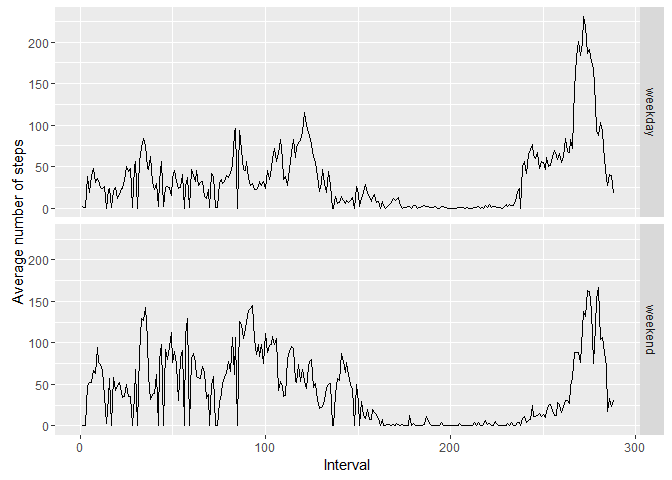
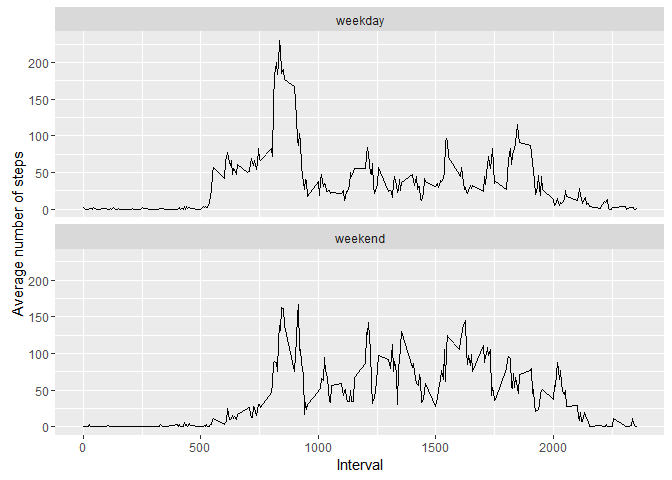
Third commit

diff --git a/PA1_template.html b/PA1_template.html
@@ -185,13 +185,13 @@ wend &lt;- activity_new[activity_new$dayOfWeek == &quot;weekend&quot;, ]
 wd_avg &lt;- tapply(wday$steps, wday$interval, mean)
 we_avg &lt;- tapply(wend$steps, wend$interval, mean)
 
-wdInt &lt;- data.frame(interval = names(wd_avg), avg_steps = wd_avg, dayOfWeek = rep(&quot;weekday&quot;, length(wd_avg)))
-weInt &lt;- data.frame(interval = names(we_avg), avg_steps = we_avg, dayOfWeek = rep(&quot;weekend&quot;, length(we_avg)))
+wdInt &lt;- data.frame(interval = unique(wday$interval), avg_steps = wd_avg, dayOfWeek = rep(&quot;weekday&quot;, length(wd_avg)))
+weInt &lt;- data.frame(interval = unique(wend$interval), avg_steps = we_avg, dayOfWeek = rep(&quot;weekend&quot;, length(we_avg)))
 
 intAvg &lt;- rbind(wdInt, weInt)
 
-qplot(as.integer(interval), avg_steps, data = intAvg, facets = dayOfWeek~., geom=&quot;line&quot;, xlab = &quot;Interval&quot;, ylab = &quot;Average number of steps&quot;)</code></pre>
[1 lines of base64/hex data omitted]
+qplot(interval, avg_steps, data = intAvg, geom=&quot;line&quot;, xlab = &quot;Interval&quot;, ylab = &quot;Average number of steps&quot;) + facet_wrap(~dayOfWeek, ncol=1)</code></pre>
[1 lines of base64/hex data omitted]
 </div>
 
 

diff --git a/PA1_template.md b/PA1_template.md
@@ -114,12 +114,12 @@ wend <- activity_new[activity_new$dayOfWeek == "weekend", ]
 wd_avg <- tapply(wday$steps, wday$interval, mean)
 we_avg <- tapply(wend$steps, wend$interval, mean)
 
-wdInt <- data.frame(interval = names(wd_avg), avg_steps = wd_avg, dayOfWeek = rep("weekday", length(wd_avg)))
-weInt <- data.frame(interval = names(we_avg), avg_steps = we_avg, dayOfWeek = rep("weekend", length(we_avg)))
+wdInt <- data.frame(interval = unique(wday$interval), avg_steps = wd_avg, dayOfWeek = rep("weekday", length(wd_avg)))
+weInt <- data.frame(interval = unique(wend$interval), avg_steps = we_avg, dayOfWeek = rep("weekend", length(we_avg)))
 
 intAvg <- rbind(wdInt, weInt)
 
-qplot(as.integer(interval), avg_steps, data = intAvg, facets = dayOfWeek~., geom="line", xlab = "Interval", ylab = "Average number of steps")
+qplot(interval, avg_steps, data = intAvg, geom="line", xlab = "Interval", ylab = "Average number of steps") + facet_wrap(~dayOfWeek, ncol=1)
 ```
 
 ![](PA1_template_files/figure-html/unnamed-chunk-8-1.png)
